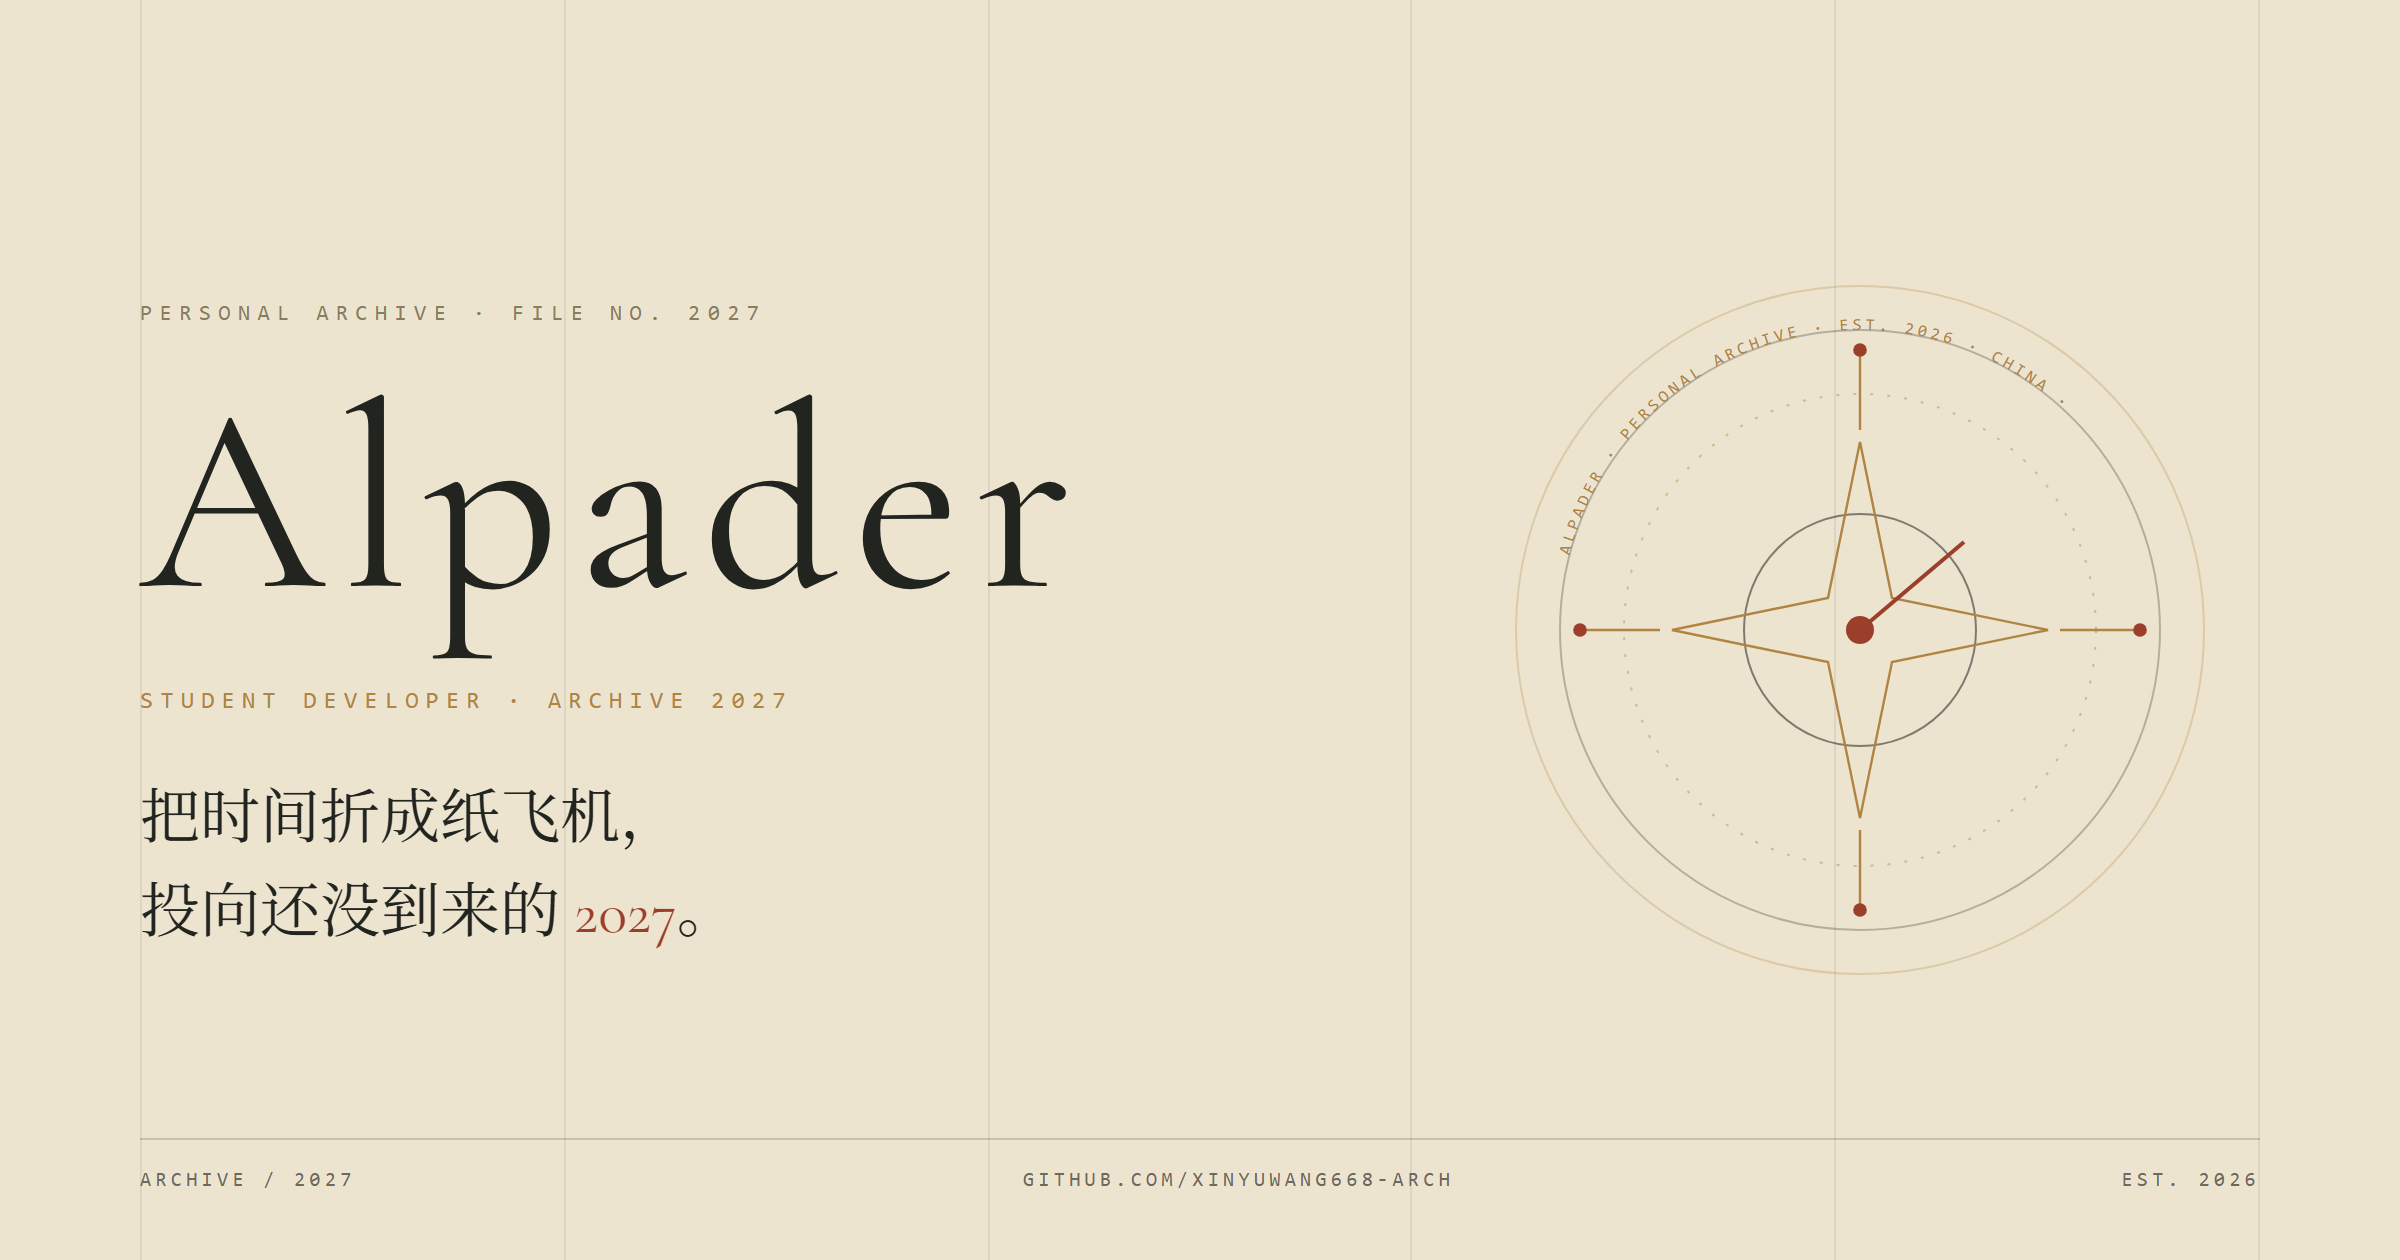
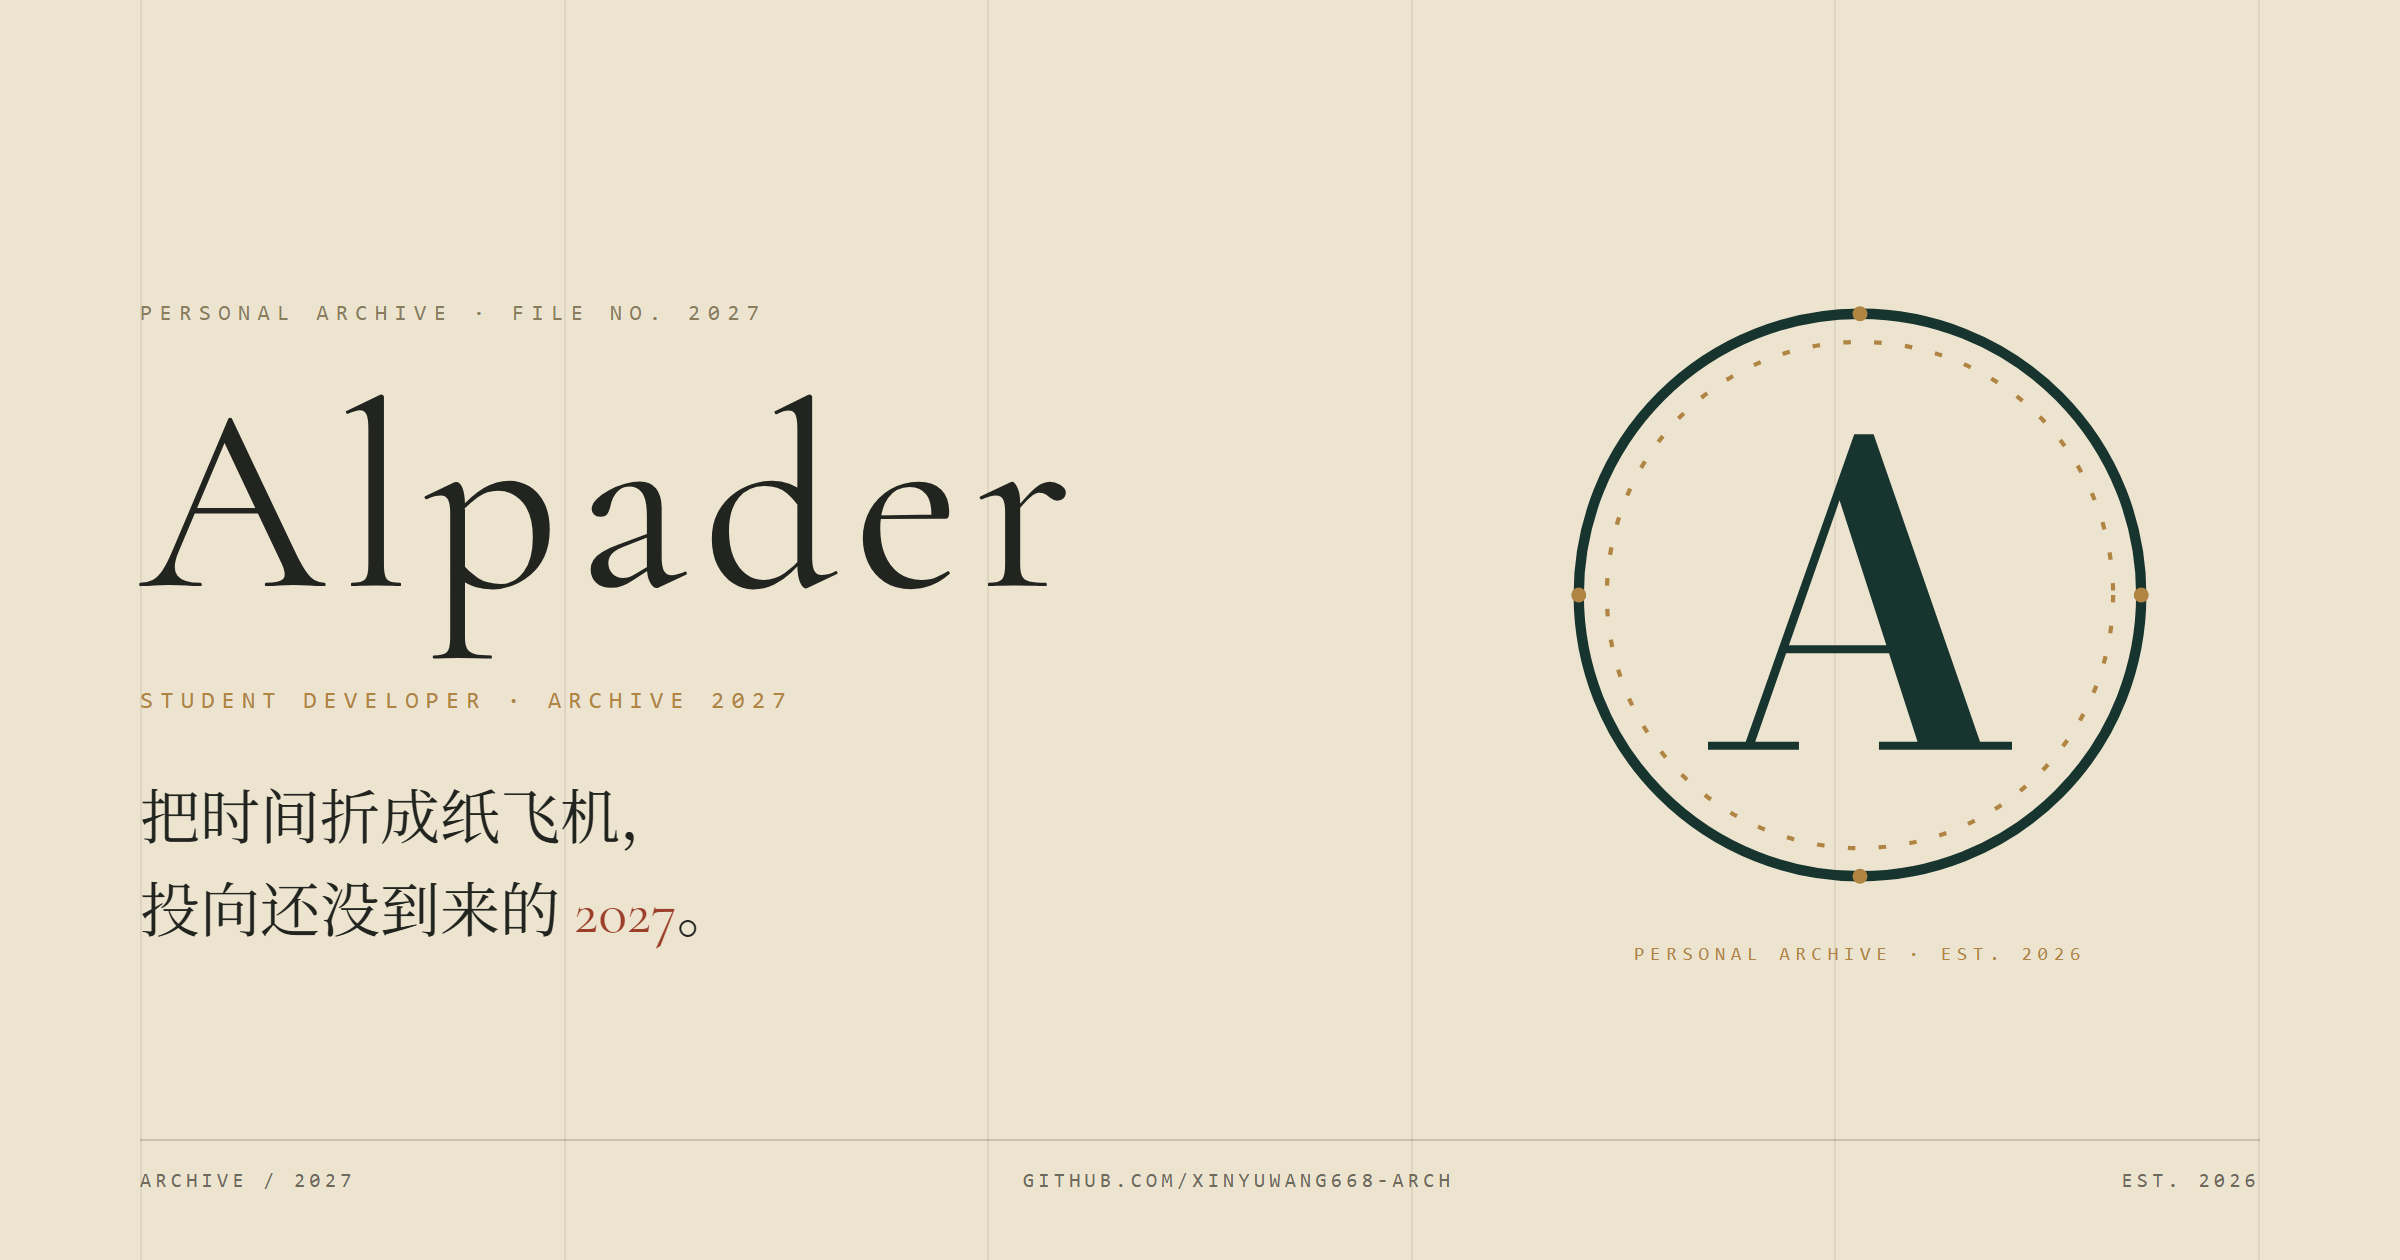
Recut the social card around the new seal
Same layout and copy as before; the emblem clock is replaced by the mark, and the card source now lives in tools/og-card.html so it can be re-rendered with headless Edge.

diff --git a/tools/og-card.html b/tools/og-card.html
@@ -1,0 +1,49 @@
+<!DOCTYPE html>
+<html lang="zh-CN">
+<head>
+<meta charset="utf-8">
+<title>og</title>
+<link rel="preconnect" href="https://fonts.googleapis.com">
+<link rel="preconnect" href="https://fonts.gstatic.com" crossorigin>
+<link href="https://fonts.googleapis.com/css2?family=Cormorant+Garamond:wght@300;400;500&family=Noto+Serif+SC:wght@400;600&display=swap" rel="stylesheet">
+<style>
+  * { box-sizing: border-box; margin: 0; }
+  html, body { width: 1200px; height: 630px; }
+  body {
+    background: #ede4d0; color: #21241f; overflow: hidden;
+    font-family: "Cormorant Garamond", Georgia, "Noto Serif SC", "Songti SC", serif;
+    position: relative;
+    display: grid; grid-template-columns: 1fr 400px; align-items: center;
+    padding: 0 70px; gap: 40px;
+  }
+  .grid { position: absolute; inset: 0; display: flex; justify-content: space-between; padding: 0 70px; pointer-events: none; }
+  .grid i { width: 1px; background: rgba(33,36,31,.08); height: 100%; }
+  .left { position: relative; }
+  .eyebrow { font-family: Consolas, monospace; font-size: 11px; letter-spacing: .34em; color: #8a7d5e; margin-bottom: 22px; }
+  .name { font-size: 132px; line-height: 1; letter-spacing: .06em; font-weight: 400; }
+  .latin { font-family: Consolas, monospace; font-size: 12px; letter-spacing: .3em; color: #b08442; margin-top: 26px; }
+  .tag { font-size: 30px; line-height: 1.55; margin-top: 30px; max-width: 560px; }
+  .tag em { font-style: normal; color: #9c3f2a; }
+  .foot { position: absolute; left: 70px; right: 70px; bottom: 34px; display: flex; justify-content: space-between;
+    border-top: 1px solid rgba(33,36,31,.18); padding-top: 14px;
+    font-family: Consolas, monospace; font-size: 10px; letter-spacing: .22em; color: #6d6a5c; }
+  .seal { justify-self: center; text-align: center; }
+  .seal img { width: 300px; display: block; }
+  .seal .cap { font-family: Consolas, monospace; font-size: 9.5px; letter-spacing: .3em; color: #b08442; margin-top: 24px; }
+</style>
+</head>
+<body>
+<div class="grid"><i></i><i></i><i></i><i></i><i></i><i></i></div>
+<div class="left">
+  <div class="eyebrow">PERSONAL ARCHIVE 路 FILE NO. 2027</div>
+  <div class="name">Alpader</div>
+  <div class="latin">STUDENT DEVELOPER 路 ARCHIVE 2027</div>
+  <div class="tag">鎶婃椂闂存姌鎴愮焊椋炴満锛?br>鎶曞悜杩樻病鍒版潵鐨?<em>2027</em>銆?/div>
+</div>
+<div class="seal">
+  <img src="../assets/logo/alpader-mark.svg" alt="">
+  <div class="cap">PERSONAL ARCHIVE 路 EST. 2026</div>
+</div>
+<div class="foot"><span>ARCHIVE / 2027</span><span>GITHUB.COM/XINYUWANG668-ARCH</span><span>EST. 2026</span></div>
+</body>
+</html>
